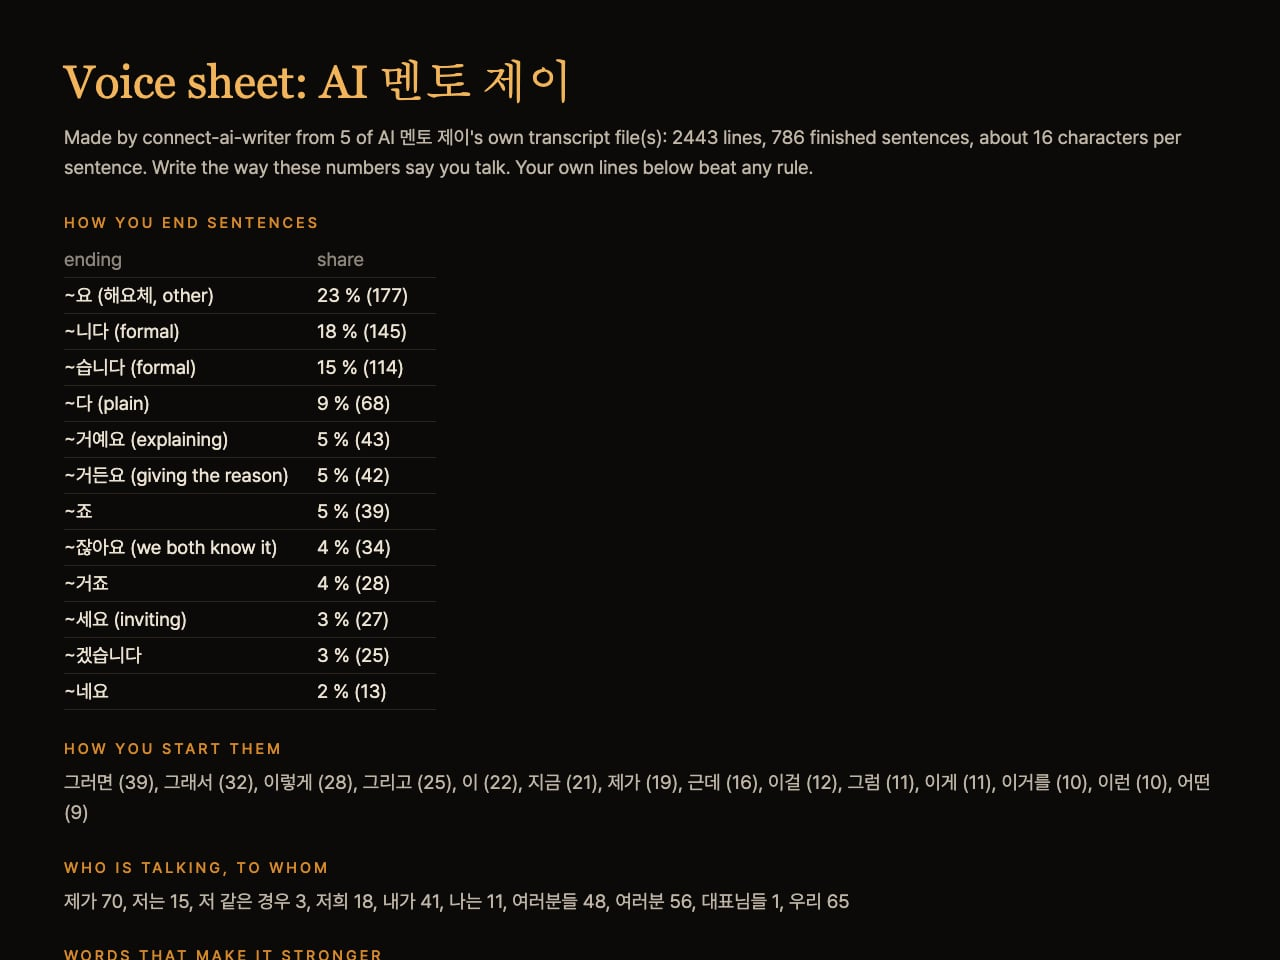
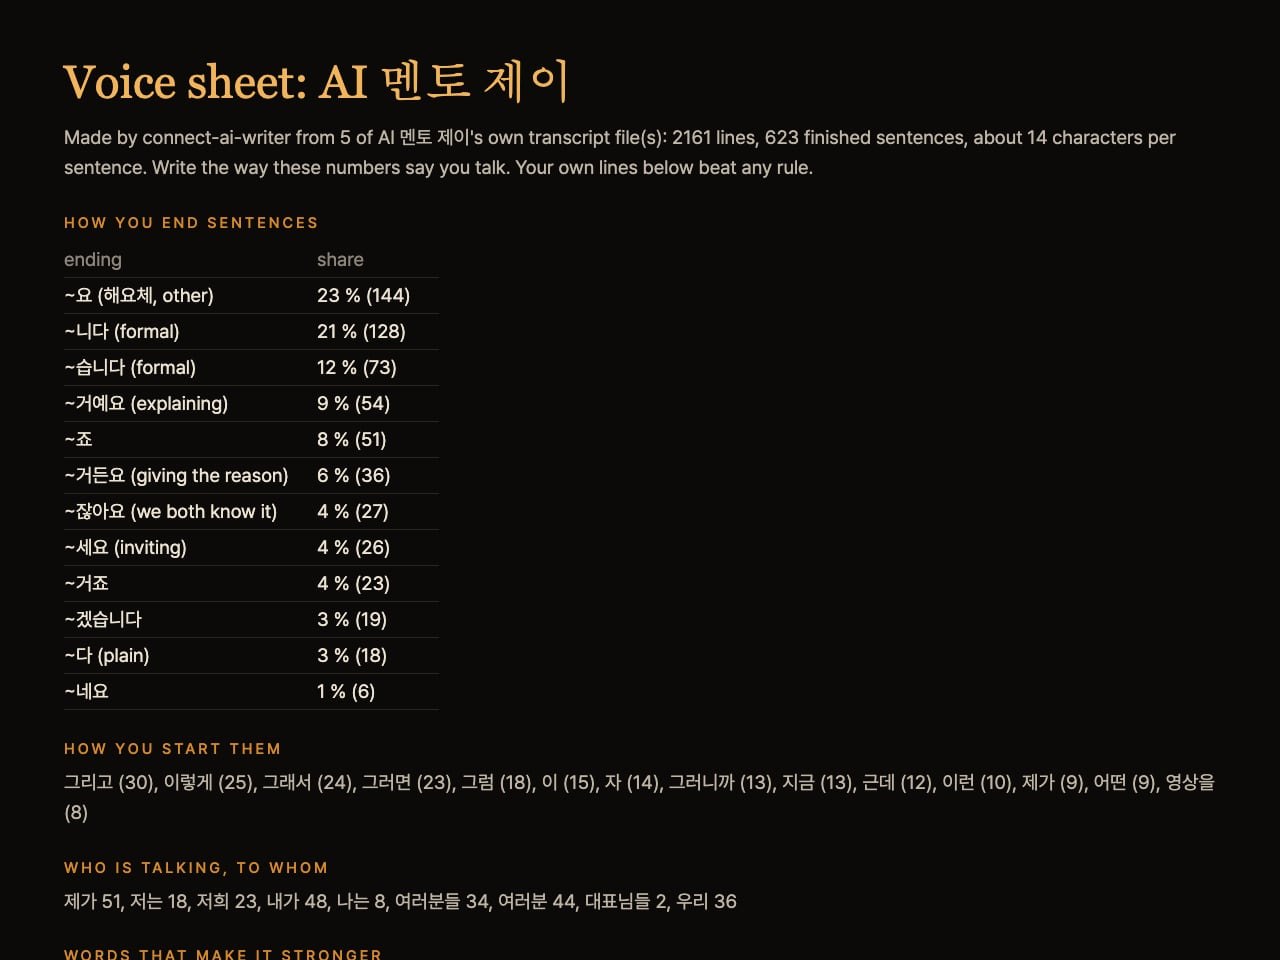
v0.1 vs v0.2 on the same lesson video; humanize keeps words from your voice sheet; Korean copy in Jay's voice (checked with Gemini); hero opens on the full skills grid

diff --git a/docs/textbook/index.html b/docs/textbook/index.html
@@ -216,12 +216,12 @@ html:lang(en) .head h2{letter-spacing:-.025em}
         <div class="step-n"><b>1</b><small lang="en">STEP 01</small></div>
         <div class="step-body">
           <h3 data-i="s1_h">AI 글쓰기 직원 데려오기</h3>
-          <p data-i="s1_n">에이전트한테 이렇게 말하세요.</p>
+          <p data-i="s1_n">자, 그러면 여러분들 에이전트한테 이렇게 한번 말해 보세요.</p>
           <div class="pc" data-copy>
             <div class="pc-top"><span class="pc-n" lang="en">PROMPT</span><button class="copy" type="button" data-i="copy">복사</button></div>
             <pre class="pc-body" tabindex="0" data-i="p1">npx connect-ai-writer install-skill 실행해 줘</pre>
           </div>
-          <p class="note" data-i="s1_after">"Ok to proceed?" 하고 물어보면 <code>y</code> 라고 답하면 돼요. 끝나면 새 대화를 여세요. npm에 아직 안 올라가 있으면 <code>npx github:wonseokjung/connect-ai-writer install-skill</code> 으로 해도 똑같이 깔려요.</p>
+          <p class="note" data-i="s1_after">"Ok to proceed?" 하고 물어보면 <code>y</code> 라고 답하시면 돼요. 다 끝나면 새 대화를 한번 열어 보세요. npm에 아직 안 올라가 있으면 <code>npx github:wonseokjung/connect-ai-writer install-skill</code> 으로 해도 똑같이 깔려요.</p>
           <figure class="screen"><div class="frame"><img loading="lazy" src="../showcase/v02/install.jpg" width="1280" height="960" alt="install-skill 실행 화면" data-ia="a1"></div><figcaption><b>REAL OUTPUT</b><span data-i="c1">실제로 깔아 본 화면이에요. 스킬 파일 10개가 같이 들어가요.</span></figcaption></figure>
         </div>
       </div>
@@ -235,7 +235,7 @@ html:lang(en) .head h2{letter-spacing:-.025em}
             <div class="pc-top"><span class="pc-n" lang="en">PROMPT</span><button class="copy" type="button" data-i="copy">복사</button></div>
             <pre class="pc-body" tabindex="0" data-i="p2">이 폴더에 있는 내 영상 자막(.srt) 전부로 내 말투표 만들어 줘. connect-ai-writer voice 로 하고 voice.md 로 저장해 줘.</pre>
           </div>
-          <figure class="screen"><div class="frame"><img loading="lazy" src="../showcase/v02/voice.jpg" width="1280" height="960" alt="말투표" data-ia="a2"></div><figcaption><b>REAL OUTPUT</b><span data-i="c2">제 강의 자막 5개로 만든 거예요. 2,443줄에서 문장 786개를 셌어요. 어미, 첫마디, 자주 쓰는 말까지 다 나와요.</span></figcaption></figure>
+          <figure class="screen"><div class="frame"><img loading="lazy" src="../showcase/v02/voice.jpg" width="1280" height="960" alt="말투표" data-ia="a2"></div><figcaption><b>REAL OUTPUT</b><span data-i="c2">제 강의랑 라이브 자막 5개로 만든 거예요. 2,161줄에서 문장 623개를 셌어요. 어미, 첫마디, 자주 쓰는 말까지 다 나와요.</span></figcaption></figure>
         </div>
       </div>
 
@@ -247,7 +247,7 @@ html:lang(en) .head h2{letter-spacing:-.025em}
             <div class="pc-top"><span class="pc-n" lang="en">PROMPT</span><button class="copy" type="button" data-i="copy">복사</button></div>
             <pre class="pc-body" tabindex="0" data-i="p3">요즘 뜨는 주제 찾아 줘. "바이브코딩" 이랑 "AI 1인 기업" 으로. 출처랑 날짜 꼭 붙이고, 글감 후보도 뽑아 줘.</pre>
           </div>
-          <p data-i="s3_after">구글 트렌드, 구글이랑 유튜브랑 네이버 검색어 자동완성, 위키백과 조회수를 키 없이 봐요. Ego Lite가 있으면 X, 쓰레드도 읽기만 해서 같이 보고요. 네이버 데이터랩은 내 키를 넣었을 때만 켜져요.</p>
+          <p data-i="s3_after">구글 트렌드, 구글이랑 유튜브랑 네이버 검색어 자동완성, 위키백과 조회수를 키 없이 다 보는 거예요. Ego Lite가 있으면 X, 쓰레드도 읽기만 해서 같이 보고요. 네이버 데이터랩은 내가 키를 넣었을 때만 켜지거든요.</p>
           <figure class="screen"><div class="frame"><img loading="lazy" src="../showcase/v02/trends.jpg" width="1280" height="960" alt="트렌드 화면" data-ia="a3"></div><figcaption><b>REAL OUTPUT</b><span data-i="c3">11월 24일에 돌린 거예요. 위키백과 바이브 코딩 문서 조회수가 올해 3월에 제일 높았어요.</span></figcaption></figure>
         </div>
       </div>
@@ -298,7 +298,7 @@ html:lang(en) .head h2{letter-spacing:-.025em}
             <div class="pc-top"><span class="pc-n" lang="en">PROMPT</span><button class="copy" type="button" data-i="copy">복사</button></div>
             <pre class="pc-body" tabindex="0" data-i="p6">우리 아이 잠자리 동화 써 줘. 7살이고 공룡 좋아해. 그림책으로 만들어서 PDF까지.</pre>
           </div>
-          <p data-i="s6_after">한 쪽에 한 장면, 글에 나온 건 그림에도 나오게, 마지막은 교훈 말고 첫 장면으로 돌아오게. 이런 그림책 규칙을 직원이 알아서 검사해요. 그림은 코드로 그린 동물이랑 물건만 써요. 사람은 안 그려요.</p>
+          <p data-i="s6_after">한 쪽에 한 장면, 글에 나온 건 그림에도 나오게, 마지막은 교훈이 아니라 첫 장면으로 돌아오게 하는 거예요. 이런 그림책 규칙을 직원이 알아서 다 검사해 주거든요. 그림은 코드로 그린 동물이랑 물건만 써요. 사람은 안 그려요.</p>
           <figure class="screen"><div class="frame"><img loading="lazy" src="../showcase/v02/story_pages.jpg" width="1824" height="912" alt="그림책 쪽들" data-ia="a6"></div><figcaption><b>REAL OUTPUT</b><span data-i="c6">"토토와 졸린 작은 별", 12쪽짜리예요. 표지, 본문, 끝 쪽까지 이렇게 나와요.</span></figcaption></figure>
         </div>
       </div>
@@ -323,7 +323,7 @@ html:lang(en) .head h2{letter-spacing:-.025em}
             <div class="pc-top"><span class="pc-n" lang="en">PROMPT</span><button class="copy" type="button" data-i="copy">복사</button></div>
             <pre class="pc-body" tabindex="0" data-i="p8">네이버 블로그 글 Ego Lite로 글쓰기 화면에 넣고 임시저장까지만 해 줘. 발행은 내가 할게.</pre>
           </div>
-          <p data-i="s8_after">직원은 절대 혼자 안 올려요. 로그인도 안 하고, 비밀번호도 안 쳐요. 로그아웃돼 있으면 Ego Lite에서 직접 로그인하시면 돼요.</p>
+          <p data-i="s8_after">이 직원은 절대 혼자 글을 안 올려요. 로그인도 안 하고, 비밀번호도 안 치거든요. 로그아웃돼 있으면 여러분들이 Ego Lite에서 직접 로그인하시면 돼요.</p>
           <figure class="screen"><div class="frame"><img loading="lazy" src="../showcase/naver_editor.jpg" alt="네이버 블로그 글쓰기 화면에 들어간 글" data-ia="a8"></div><figcaption><b>REAL OUTPUT</b><span data-i="c8">제 계정 네이버 블로그 글쓰기 화면이에요. 제목, 소제목, 문단 사이 사진, 태그까지 들어가고 임시저장에서 멈춰요.</span></figcaption></figure>
         </div>
       </div>
@@ -338,9 +338,9 @@ html:lang(en) .head h2{letter-spacing:-.025em}
       </div>
       <dl class="faq">
         <div><dt data-i="q1">그림이 하나도 안 나와요</dt><dd data-i="a1t">크롬이 있어야 그림을 만들어요. <code>npx connect-ai-writer doctor</code> 해 보시면 뭐가 빠졌는지 나와요.</dd></div>
-        <div><dt data-i="q2">검사에서 숫자 때문에 막혀요</dt><dd data-i="a2t">출처에 없는 숫자라서 그래요. 규칙을 끄지 말고 글을 고치세요. <code>check --trace</code> 하면 숫자마다 어디서 왔는지 보여 줘요.</dd></div>
-        <div><dt data-i="q3">트렌드에 구글 관심도가 비어 있어요</dt><dd data-i="a3t">구글이 잠깐 막을 때가 있어요. 조금 있다가 다시 해 보세요. 나머지 신호는 그대로 나와요.</dd></div>
-        <div><dt data-i="q4">네이버가 작성 중인 글을 이어서 쓸지 물어봐요</dt><dd data-i="a4t">그건 내 글이라서 직원이 대신 안 골라요. Ego Lite 열어서 확인이나 취소를 직접 누르고 다시 시키세요.</dd></div>
+        <div><dt data-i="q2">검사에서 숫자 때문에 막혀요</dt><dd data-i="a2t">출처에 없는 숫자라서 그렇거든요. 규칙을 끄는 게 아니라 글을 고치셔야 돼요. <code>check --trace</code> 한번 해 보시면 숫자마다 어디서 왔는지 다 보여 줘요.</dd></div>
+        <div><dt data-i="q3">트렌드에 구글 관심도가 비어 있어요</dt><dd data-i="a3t">구글이 잠깐 막을 때가 있거든요. 조금 있다가 다시 한번 해 보세요. 나머지 신호는 그대로 다 나와요.</dd></div>
+        <div><dt data-i="q4">네이버가 작성 중인 글을 이어서 쓸지 물어봐요</dt><dd data-i="a4t">그건 여러분들 글이라서 직원이 대신 안 고르거든요. Ego Lite 열어서 확인이나 취소를 직접 누르시고 다시 한번 시켜 보세요.</dd></div>
         <div><dt data-i="q5">모션그래픽 영상이 안 만들어져요</dt><dd data-i="a5t">connect-ai-motion 이 깔려 있어야 돼요. <code>npx connect-ai-writer engines</code> 로 확인해 보세요.</dd></div>
       </dl>
     </div>
@@ -406,7 +406,7 @@ html:lang(en) .head h2{letter-spacing:-.025em}
     a1: 'install-skill output', c1: 'A real install. Ten skill files come with it.',
     s2_h: 'Make your voice sheet', s2_n: 'AI writing reads wrong because it is not your voice. So first it counts how you really talk, from your own subtitles.',
     p2: 'Make my voice sheet from all my video subtitles (.srt) in this folder. Use connect-ai-writer voice and save it as voice.md.',
-    a2: 'Voice sheet', c2: 'Made from five of my lesson subtitles: 786 sentences out of 2,443 lines. Endings, first words and favourite words, all counted.',
+    a2: 'Voice sheet', c2: 'Made from five of my lesson and live subtitles: 623 sentences out of 2,161 lines. Endings, first words and favourite words, all counted.',
     s3_h: 'Find what is trending', p3: 'Find what is trending for "vibe coding" and "AI one-person company". Put a source and a date on everything, and give me post ideas.',
     s3_after: 'It reads Google Trends, Google, YouTube and Naver search suggestions and Wikipedia views with no key. With Ego Lite it also reads X and Threads, read only. Naver DataLab turns on only with your own key.',
     a3: 'Trends page', c3: 'Run on November 24. Views of the Korean Wikipedia page on vibe coding peaked this March.',

diff --git a/docs/index.html b/docs/index.html
@@ -148,6 +148,12 @@ section{padding:56px 0 10px}
 </section>
 
 <section>
+  <h2>v0.1 <em>vs</em> v0.2</h2>
+  <p class="sub">The same lesson video, the same Naver blog post. v0.2 scores the titles, puts the search words first and writes from my voice sheet.</p>
+  <div class="film"><img loading="lazy" src="showcase/v02/before_after.jpg" alt="The v0.1 post and the v0.2 post from the same lesson video"></div>
+</section>
+
+<section>
   <h2>From <em>one lesson video</em></h2>
   <p class="sub">Lesson 2 of my Visual Vibe Coding course, its Korean subtitles, and my voice sheet, a list of how I talk. That was the only input.</p>
   <div class="source">

diff --git a/README.ko.md b/README.ko.md
@@ -7,7 +7,7 @@
 
 # connect-ai-writer
 
-**글 잘 쓰는 데 필요한 스킬을 다 모아 둔 AI 글쓰기 직원이에요. 한 문장만 말하면 트렌드 찾고, 자료 조사하고, 내 말투로 블로그 글을 사진까지 써 줘요. 아이 동화도 써 주고요.**
+**글 잘 쓰는 데 필요한 스킬을 제가 다 모아 둔 AI 글쓰기 직원이에요. 여러분들이 한 문장만 말하면 트렌드 찾고, 자료 조사하고, 내 말투로 블로그 글을 사진까지 다 써 주는 거예요. 아이 동화도 써 주고요.**
 
 [![한 문장 넣으면 트렌드, 리서치, 블로그, 그림, 동화, 모션그래픽까지. 전부 실제로 돌린 결과예요](docs/hero_v02.webp)](https://wonseokjung.github.io/connect-ai-writer/)
 
@@ -30,7 +30,7 @@ npx connect-ai-writer install-skill
 <tr>
 <td width="33%" valign="top"><img src="docs/showcase/v02/story.jpg" width="100%" alt="그림책 동화"><br><b>그림책 동화</b><br><sub>"7살, 공룡, 잠자리 동화 써 줘." 그림도 코드로 그려서 인쇄할 수 있는 PDF까지 나와요.</sub></td>
 <td width="33%" valign="top"><img src="docs/showcase/v02/humanize.jpg" width="100%" alt="AI 티 지우기"><br><b>AI 티 지우기</b><br><sub>번역투랑 AI 말버릇을 찾아서 표시해 주고, 고친 다음에 숫자 하나 안 바뀌었는지까지 확인해요.</sub></td>
-<td width="33%" valign="top"><img src="docs/showcase/v02/voice.jpg" width="100%" alt="말투표"><br><b>내 말투표</b><br><sub>내 영상 자막을 주면 내가 실제로 어떻게 말하는지 세어서 표로 만들어요. 글은 이 표대로 써요.</sub></td>
+<td width="33%" valign="top"><img src="docs/showcase/v02/voice.jpg" width="100%" alt="말투표"><br><b>내 말투표</b><br><sub>내 영상 자막을 주면 내가 실제로 어떻게 말하는지 세어서 표로 만들어 주거든요. 글은 전부 이 표대로 쓰는 거예요.</sub></td>
 </tr>
 <tr>
 <td colspan="3"><b>우리 다른 AI 직원들이랑 같이 일해요</b></td>
@@ -38,9 +38,15 @@ npx connect-ai-writer install-skill
 <tr>
 <td width="33%" valign="top"><img src="docs/showcase/v02/motion.jpg" width="100%" alt="모션그래픽 영상"><br><b>모션그래픽 영상</b> · <a href="https://github.com/wonseokjung/connect-ai-motion"><code>connect-ai-motion</code></a><br><sub>"이 글로 모션그래픽 영상도 만들어 줘." 쓴 글 그대로 가로, 세로 영상이 나와요. 84.6%는 84.6%로요.</sub></td>
 <td width="33%" valign="top"><img src="docs/showcase/v02/posts.jpg" width="100%" alt="영상 하나로 다섯 군데"><br><b>영상 하나로 다섯 군데</b><br><sub>제 강의 영상 하나로 쓰레드, 네이버, X, 링크드인, 인스타 글이랑 사진이 한 번에 나와요.</sub></td>
-<td width="33%" valign="top"><img src="docs/showcase/naver_editor.jpg" width="100%" alt="Ego Lite 임시저장"><br><b>임시저장까지만</b> · <a href="https://github.com/wonseokjung/connect-ai-marketer"><code>connect-ai-marketer</code></a><br><sub>Ego Lite로 글쓰기 화면에 채우고 임시저장까지만 해요. 발행은 직접 누르세요. 올리는 건 마케팅팀이 이어받아요.</sub></td>
+<td width="33%" valign="top"><img src="docs/showcase/naver_editor.jpg" width="100%" alt="Ego Lite 임시저장"><br><b>임시저장까지만</b> · <a href="https://github.com/wonseokjung/connect-ai-marketer"><code>connect-ai-marketer</code></a><br><sub>Ego Lite로 글쓰기 화면에 채우고 임시저장까지만 해 줘요. 발행은 여러분들이 직접 누르시면 돼요. 올리는 건 마케팅팀이 이어받거든요.</sub></td>
 </tr>
 </table>
+
+## v0.1 이랑 v0.2, 같은 영상으로 비교
+
+<img src="docs/showcase/v02/before_after.jpg" width="100%" alt="같은 강의 영상으로 쓴 v0.1 글과 v0.2 글">
+
+제 2강 영상 하나로 쓴 네이버 블로그 글인데요. v0.2는 제목에 점수를 매기고, 검색어를 앞에 두고, 제 말투표대로 쓰는 거예요. 그래서 오른쪽은 검사를 다 통과했거든요.
 
 ## 올리기 전에 이걸 잡아 줘요
 

diff --git a/docs/guide.ko.md b/docs/guide.ko.md
@@ -12,11 +12,11 @@
 | `post [run] --to threads\|x\|naver` | Ego Lite에서 편집 화면에 넣고 게시 버튼 앞에서 멈춰요 |
 | `voice <파일...> --name "이름" --out voice.md` | 내 받아쓰기로 말투표 만들기 |
 | `trends "단어" --listen x,threads` | 구글 트렌드 급상승과 관심도, 검색어 자동완성(구글, 유튜브, 네이버), 위키백과 조회수, 그리고 Ego Lite로 X, 쓰레드, 유튜브를 읽기만 하는 리스닝. `trends.html`, `ideas.md`, 차트가 나와요. 네이버 데이터랩은 `NAVER_CLIENT_ID`, `NAVER_CLIENT_SECRET` 이 있을 때만 |
-| `research "주제" <링크나 파일...>` | 출처를 날짜까지 읽어서 `out/<날짜>_<주제>-research/` 에 넣고, 채울 `questions.md`, `facts.md` 를 만들어요. `research add`, `research check`(사실마다 출처 문장 연결, `research.html`) |
-| `start <리서치 폴더> --for naver,newsletter` | 사실 시트로 글 쓰기. 숫자, 인용, 링크를 시트랑 맞춰 보고, 블로그 글은 출처 칸이 있어야 해요 |
+| `research "주제" <링크나 파일...>` | 출처를 날짜까지 읽어서 `out/<날짜>_<주제>-research/` 에 넣고, 채울 `questions.md`, `facts.md` 를 만들어 주는 거예요. `research add`, `research check` 하시면 사실마다 출처 문장을 이어 주고 `research.html` 까지 나와요 |
+| `start <리서치 폴더> --for naver,newsletter` | 사실 시트를 보고 글을 쓰는 거예요. 숫자, 인용, 링크를 시트랑 다 맞춰 보고, 블로그 글은 출처 칸이 꼭 있어야 돼요 |
 | `plan [run] --score` | 고를 제목이랑 첫 줄 후보, 점수까지 |
 | `story "아이디어" --age 7` | 그림책. 쪽마다 장면 줄이 있는 `story.md` 를 쓰고 `build <동화 폴더>` 하면 `book.html`, 쪽 그림, `sheet.jpg`, `book.pdf` 가 나와요 |
-| `humanize <파일> --after <고친 글>` | AI 티(번역투, 영어 상투어) 표시. `--after` 를 주면 전후 비교 화면이랑 숫자가 다 그대로인지 확인 |
+| `humanize <파일> --after <고친 글>` | 번역투나 영어 상투어 같은 AI 티를 찾아서 표시해 줘요. `--after` 를 주면 전후 비교 화면도 보여 주고, 숫자가 다 그대로인지까지 확인해 주거든요. 말투표를 `--voice` 로 주면 내가 실제로 쓰는 말은 안 잡아요 |
 | `check [run] --trace` | 글 속 숫자가 어디서 왔는지 |
 | `motion [run] --from threads --render` | connect-ai-motion 이 깔려 있으면 그 글로 모션그래픽 영상 (`--wide` 는 가로만) |
 | `engines` | 같이 일하는 다른 AI 직원들(motion, video-motion, product-photo, marketer)이 있는지, 없으면 받는 법 |

diff --git a/README.md b/README.md
@@ -42,6 +42,12 @@ Every picture below is a real run.
 </tr>
 </table>
 
+## v0.1 vs v0.2, same video
+
+<img src="docs/showcase/v02/before_after.jpg" width="100%" alt="The v0.1 post and the v0.2 post from the same lesson video">
+
+A Naver blog post from one of my lesson videos. v0.2 scores the titles, puts the search words first and writes from my voice sheet. The right one passes every check.
+
 ## What it catches before you post
 
 - Numbers that are not in the source, changed quotes, links it never read
